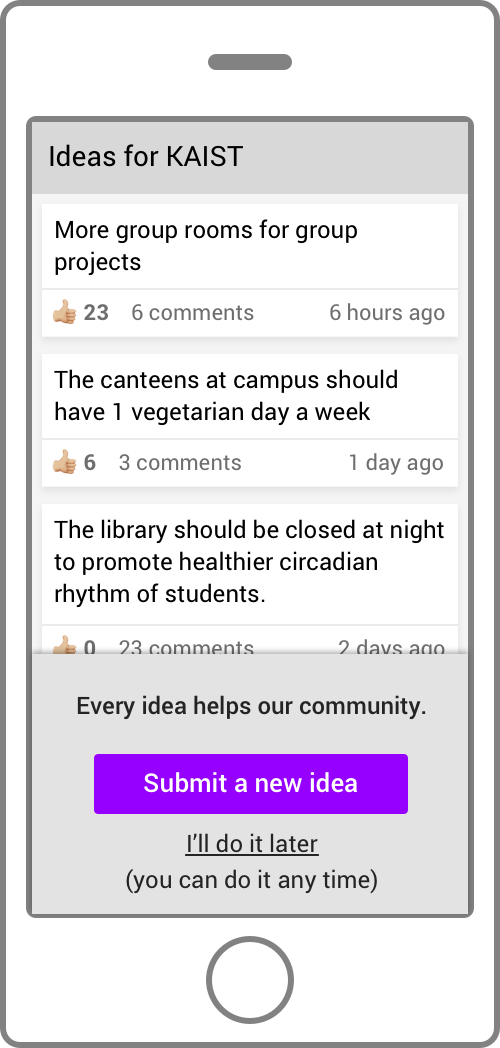
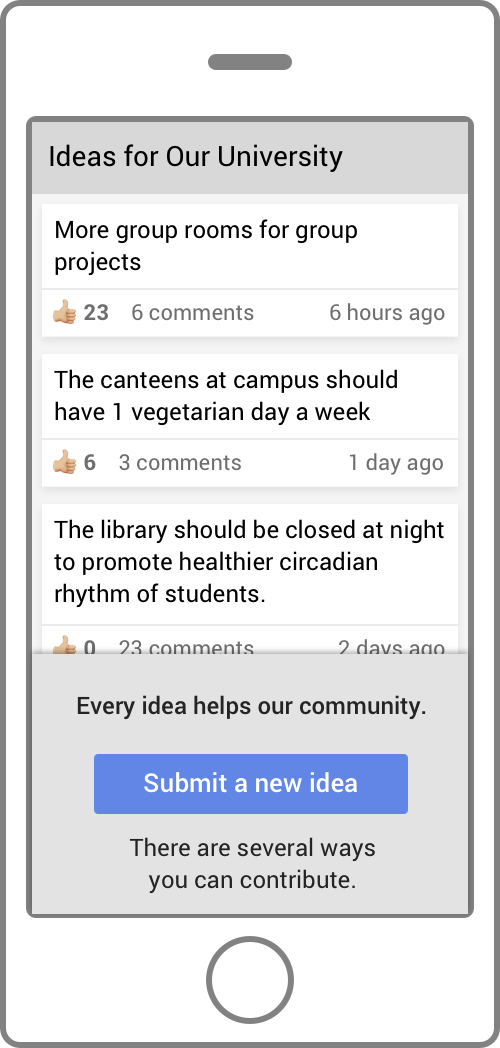
update pilot study for mturk

Changed region(s): [[0.18, 0.7023, 0.84, 0.855], [0.33, 0.1221, 0.69, 0.1832]]

diff --git a/pilot-study/templates/comparison.html b/pilot-study/templates/comparison.html
@@ -6,16 +6,15 @@
 </head>
 <body>
   <div id="content">
-    <p class="progress">Step 2/3</p>
-
     <form method="post" id="compare_form">
       <div class="steps" id="steps">
 
         <div id="step0">
           <p><strong>You will now be asked to compare a few static interface mockups.</strong></p>
-          <p>On the top of the screen, you will be given a scenario and a user task.</p>
+          <p>A mockup is an image of a design that is not functional.</p>
+          <p>On the top of the screen, you will be given a scenario and a related task.</p>
           <p>Below that, you will see two versions (1 and 2) of an interface supporting this task.</p>
-          <p>Please choose in which version you think <strong>you personally would be more likely to do the task (both now and later)</strong>.</p>
+          <p>Please choose in which version you think <strong>you personally would be more likely to do the task</strong>.</p>
 
           <div class="actions">
             <a href="javascript:next()" class="btn">OK, let's go</a>
@@ -25,12 +24,12 @@
         {% for pair in comparison_pairs %}
           <div id="step{{loop.index}}">
 
-            <p><strong>Screnario</strong></p>
-            <p>You joined an application that aims to gather ideas to improve conditions in your community, the members of KAIST. We want as many people as possible to participate, because not everyone knows about the troubles of everyone else. The school’s administration agreed to monitor the community’s ideas and follow-up with concrete steps once an issue has been identified.</p>
+            <p><strong>Scenario</strong></p>
+            <p>You joined an application that aims to gather ideas to improve conditions in your community, e.g. the members of your university, workplace, or neighborhood. We want as many people as possible to participate, because not everyone knows about the troubles of everyone else. The officials have agreed to monitor the community’s ideas and follow-up with concrete steps once an issue has been identified.</p>
             <p>This is the main screen of the app that you are presented with just after signup.</p>
             <p>The task that this design affords is to contribute a new idea.</p>
 
-            <p>In which version <strong>would you personally be more likely to do the task (both now and later)?</strong></p>
+            <p>In which version <strong>would you personally be more likely to do the task?</strong></p>
 
             <p style="text-align: center"><strong>Comparison {{loop.index}} of 6</strong></p>
             {% set cloop = loop %}

diff --git a/pilot-study/templates/gcos.html b/pilot-study/templates/gcos.html
@@ -5,13 +5,11 @@
   <link rel="stylesheet" href="{{ url_for('static', filename='style.css') }}">
 </head>
 <body>
-  <div id="content">
-    <p class="progress">Step 1/3</p>
-    
+  <div id="content">    
     <p><strong>Please take the following short personality test consisting of 12 items.</strong></p>
-    <p>These items refer to a series of hypothetical scenarios. Each scenario describes an incident and lists three ways of responding to it. Please read each scenario, imagine yourself in that situation, and then consider each of the possible responses. Think of each response option in terms of how likely it is that you would respond that way. We all respond in a variety of ways to situations, and probably most or all responses are at least slightly likely for you. If it is very unlikely that you would respond the way described in a given response, you should circle answer 1 or 2. If it is moderately likely, you would select a number in the mid range, and if it is very likely that you would respond as described, you would circle answer 6 or 7.</p>
-    <p>Please be honest and remember that there is no "correct" or "desirable" answer.</p>
-    <p>Your results will be saved anonymously (but if you want, you can tell me your email address at the end and I will send you your results).</p>
+    <p>These items refer to a series of hypothetical scenarios. Each scenario describes an incident and lists three ways of responding to it. Please <strong>read</strong> each scenario, <strong>imagine</strong> yourself in that situation, and then <strong>rate the likeliness</strong> of each of the possible responses.</p>
+    <p>We all respond in a variety of ways to situations, and probably most or all responses are at least slightly likely for you. If it is very unlikely that you would respond the way described in a given response, you should select answer 1 or 2. If it is moderately likely, you would select a number in the mid range, and if it is very likely that you would respond as described, you would select answer 6 or 7.</p>
+    <p>Your results will be saved anonymously.</p>
     
     <hr>
 
@@ -54,5 +52,18 @@
 
     </form>
   </div>
+  <script>
+    function fill_debug() {
+      var q = 0;
+      var a = 0;
+      var name;
+      for(q=0; q<12; q++) {
+        for(a=0; a<3; a++) {
+          name = 'rating_' + q + '_' + a;
+          document.forms[0].elements[name][a].checked = true;
+        }
+      }
+    }
+  </script>
 </body>
 </html>

diff --git a/pilot-study/templates/survey.html b/pilot-study/templates/survey.html
@@ -1,0 +1,48 @@
+<!DOCTYPE html>
+<html>
+<head>
+  <title>UI Design Pilot Study</title>
+  <link rel="stylesheet" href="{{ url_for('static', filename='style.css') }}">
+</head>
+<body>
+  <div id="content">
+    <form method="post">
+      <p>Good job! You're almost done, please just answer this short survey.</p>
+
+      <p><strong>Comparison results</strong></p>
+      {% if winner %}
+      <p>According to your ratings, this is the version that you prefer the most.</p>
+      <div>
+        <img src="{{ url_for('static', filename='img/' + winner + '.png') }}" class="winner-image">
+        <p><strong>Is this correct?</strong><br>
+            <label><input type="radio" name="result_correct" value="yes" required> Yes</label>
+            <label><input type="radio" name="result_correct" value="no" required> No</label>
+        </p>
+        <p><strong>Please explain in one sentence why you think you preferred (or did not prefer) this version:</strong><br>
+            <textarea name="result_reason" class="text-field" required></textarea>
+        </p>
+        {% if winner != 'BL' %}
+        <p><strong>Design explanation</strong><br>{{rationale_text}}</p>
+        <p><strong>Do you think the design supports this idea well?</strong><br>
+            <label><input type="radio" name="rationale_correct" value="yes" required> Yes</label>
+            <label><input type="radio" name="rationale_correct" value="no" required> No</label>
+        {% endif %}
+
+      </div>
+      {% else %}
+      <p>It seems like you liked multiple versions equally.</p>
+      <p><strong>Please explain any difficulty you had in deciding which version you prefer: </strong><br>
+          <textarea name="result_reason" class="text-field" required></textarea></p>
+      {% endif %}
+
+      <p><strong>Thinking more generally, what would motivate you to participate? Feel free to share any ideas or thoughts you have.</strong><br>
+        <textarea name="open" class="text-field" required></textarea></p>
+
+      <div class="actions">
+        <input type="submit" class="btn" value="Continue">
+      </div>
+
+    </div>
+  </form>
+</body>
+</html>

diff --git a/pilot-study/templates/finish.html b/pilot-study/templates/finish.html
@@ -6,23 +6,10 @@
 </head>
 <body>
   <div id="content">
-    <p class="progress">Step 3/3</p>
-
     <p><strong>Thank you for your participation.</strong></p>
 
-    {% if saved %}
-    <p>All done!</p>
-    {% else %}
-    <p>If you are interested in your test score and analysis of the results, please leave your email address so I can contact you. Note that you will give up anonymity by doing so. However, I guarantee you that your information will not be shared with anyone else.</p>
+    <p>To complete the HIT, please enter this code on Mechanical Turk: <strong>{{code}}</strong></p>
 
-    <form method="post">
-      <label>E-mail address: <input type="text" name="email" required></label>
-
-      <div class="actions">
-        <input type="submit" class="btn" value="Save">
-      </div>
-    </form>
-    {% endif %}
   </div>
 </body>
 </html>

diff --git a/pilot-study/templates/start.html b/pilot-study/templates/start.html
@@ -6,10 +6,8 @@
 </head>
 <body>
   <div id="content">
-    <p class="progress">Step 0/3</p>
-
-    <p><strong>Thank you for helping me out!</strong></p>
-    <p>In this short pilot study, you will first complete a pre-test and then perform a series of pairwise comparison tasks. In total, this will take around 10-15 minutes.</p>
+    <p><strong>Welcome!</strong></p>
+    <p>In this study, you will (1) take a short personality test, (2) perform a series of pairwise comparison tasks, and (3) answer a few more questions. In total, this will take around 10 minutes of your time.</p>
     <p>When you're ready, please press start.</p>
     <!--<p>Your user id: {{user_id}}-{{user_counter}}</p>-->
 

diff --git a/pilot-study/static/style.css b/pilot-study/static/style.css
@@ -17,6 +17,10 @@ p {
     line-height: 1.5;
 }
 
+hr {
+    margin: 1.5em 0;
+}
+
 #content {
     width: 750px;
     background-color: #fff;
@@ -51,6 +55,7 @@ label {
 
 .actions {
     text-align: center;
+    clear: both;
 }
 
 .answers {
@@ -116,4 +121,18 @@ label {
     max-width: 100%;
     display: block;
     margin-bottom: 15px;
+}
+
+.winner-image {
+    width: 250px;
+    float: left;
+    margin-right: 2em;
+}
+
+.text-field {
+    width: 300px;
+    height: 100px;
+    box-sizing: border-box;
+    padding: 8px;
+
 }

diff --git a/pilot-study/server.py b/pilot-study/server.py
@@ -6,12 +6,14 @@ import uuid
 import json
 
 from gcos import vignette, score_test
-from experiment import get_ordered_pairs, get_ordering, shuffle_pair_random
+from experiment import get_ordered_pairs, get_ordering, shuffle_pair_random, get_top_preference, rationale_texts
+
+base_directory = os.path.dirname(os.path.realpath(__file__))
 
 app = Flask(__name__)
 
 def save_session(session):
-    filename = 'data/%s.json' % session['user_id']
+    filename = '%s/data/%s.json' % (base_directory, session['user_id'])
     data = dict(session)
     data['user_id'] = str(data['user_id'])
     with open(filename, 'w') as fp:
@@ -57,9 +59,8 @@ def comparison():
     context = {}
     if request.method == 'POST':
         session['comparisons'] = request.form
-        session['finished'] = datetime.now().timestamp()
         save_session(session)
-        return redirect(url_for('finish'))
+        return redirect(url_for('survey'))
 
     comparison_pair_items = get_ordered_pairs(get_ordering(session['user_counter']))
     comparison_pairs = []
@@ -73,16 +74,29 @@ def comparison():
 
     return make_response(render_template('comparison.html', **context))
 
-@app.route('/finish', methods=['GET', 'POST'])
-def finish():
-    "Finish and get email optionally"
-    context = {}
-    if request.method == 'POST':
-        session['email'] = request.form['email']
-        save_session(session)
-        session.clear()
-        context['saved'] = True
 
+@app.route('/survey', methods=['GET', 'POST'])
+def survey():
+    "Post-test survey"
+    context = {}
+
+    if request.method == 'POST':
+        session['survey'] = request.form
+        session['finished'] = datetime.now().timestamp()
+        save_session(session)
+        return redirect(url_for('finish'))
+
+    context['winner'] = get_top_preference(session['comparisons'])
+    if context['winner']:
+        context['rationale_text'] = rationale_texts[context['winner']]
+
+    return make_response(render_template('survey.html', **context))
+
+
+@app.route('/finish')
+def finish():
+    "Finish "
+    context = {'code': str(session['user_id'])[:6]}
     return make_response(render_template('finish.html', **context))
 
 @app.context_processor
@@ -99,8 +113,12 @@ def dated_url_for(endpoint, **values):
             values['q'] = int(os.stat(file_path).st_mtime)
     return url_for(endpoint, **values)
 
+app.secret_key = os.urandom(32)
+app.user_counter = 0
+
 if __name__ == '__main__':
-    app.secret_key = os.urandom(32)  # random key resets sessions every time the app loads
+    app.secret_key = 'sdy2f356rfvesfudnufd8'
+    #app.secret_key = os.urandom(32)  # random key resets sessions every time the app loads
     app.user_counter = 0  # user counter for balanced experiment
     app.config['DEBUG'] = True
-    app.run(threaded=True, host='0.0.0.0')
+    app.run(threaded=True) #, host='0.0.0.0'

diff --git a/pilot-study/experiment.py b/pilot-study/experiment.py
@@ -12,6 +12,13 @@ conditions = ('A', 'I', 'C', 'BL')
 pairs = list(combinations(conditions, 2))
 orderings = balanced_latin_squares(len(pairs))
 
+rationale_texts = {
+    'A': 'This design should be suitable for people who are motivated by freedom of choice, dislike pressure, and have high self-esteem.',
+    'I': 'This design should be suitable for people who are unsure about their competence and like to follow examples.',
+    'C': 'This design should be suitable for people who are motivated by rewards, clear directives, and external pressure.',
+    'BL': 'This design is a baseline for comparison. It includes only general text and no additional context.'
+}
+
 def get_ordering(n):
     "Return ordering sequence based on some number that is fixed per user (user_id or counter)"
     return orderings[n % len(orderings)]
@@ -26,3 +33,21 @@ def shuffle_pair_random(pair):
     if order == 1:
         pair = list(pair[::-1])
     return pair, order
+
+def get_top_preference(comparisons):
+
+    prefs = list(comparisons.values())
+    counts = dict([x, prefs.count(x)] for x in set(prefs))
+    print(counts)
+    highscore = max(counts.values())
+    winners = [condition for condition, count in counts.items() if count == highscore]
+    winner = None
+    if len(winners) == 1:
+        winner = winners[0]
+    # if there are two winners, we can decide by looking at the direct comparison
+    if len(winners) == 2:
+        try:
+            winner = comparisons['_'.join(winners)]
+        except ValueError:
+            winner = comparisons['_'.join(winners[::-1])]    
+    return winner

diff --git a/pilot-study/data_to_csv.py b/pilot-study/data_to_csv.py
@@ -7,7 +7,7 @@ writer = csv.writer(csvfile, delimiter=';', quotechar='"', quoting=csv.QUOTE_MIN
     
 #header = ['subject', 'duration', 'test_A', 'test_C', 'test_I', 'item_1', 'item_2', 'result', 'order', 'pair_order']
 pairs = ['A_I', 'A_C', 'I_C', 'A_BL', 'I_BL', 'C_BL']
-header = pairs + ['test', ]
+header = pairs + ['test', ] + ['test_I', 'test_A', 'test_C',]
 print(header)
 writer.writerow(header)
 
@@ -57,6 +57,7 @@ for filename in glob.glob("data/*.json"):
             test_score_categories.append(test_scores_order)
         row.append(1+test_score_categories.index(test_scores_order))
 
+        row = row + list(data['test_scores'].values())
         print(row)
         writer.writerow(row)
 
